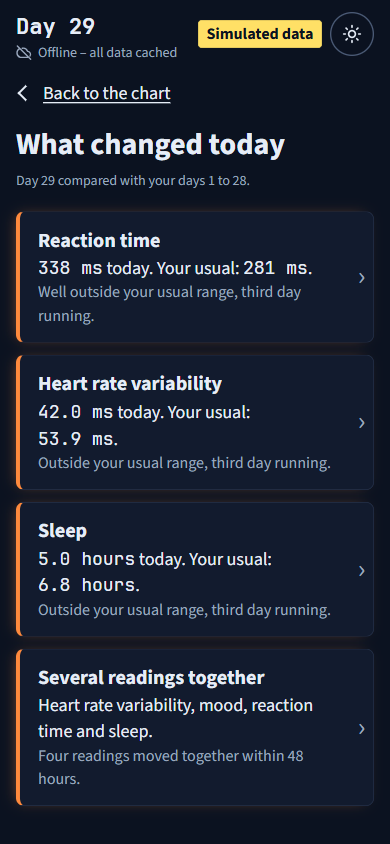
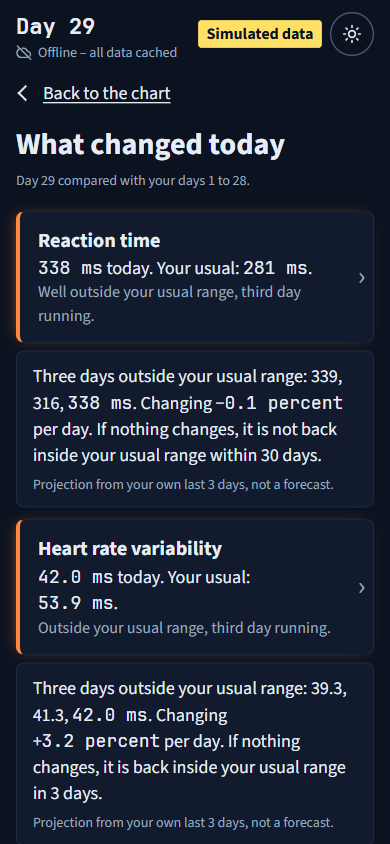
Trend projection card from the last 3 days; mood axis inside 1 to 5

diff --git a/app.js b/app.js
@@ -10,8 +10,8 @@ const SIGNALS = {
   sleep_hours: { name: "Sleep", phrase: "Your sleep last night", unit: "hours", dp: 1, step: 1, low: "shorter", high: "longer" },
   reaction_ms: { name: "Reaction time", phrase: "Your reaction time today", unit: "ms", dp: 0, step: 50, low: "faster", high: "slower" },
   // step for the four below: the smallest of 0.25, 0.5, 1, 2, 2.5, 5, 10 that gives three ticks on days 29 and 30
-  // of web/data/crew_a_anomaly.json (values plus usual range): 2 to 6, 50 to 70, 96 to 100, 36.5 to 37.0
-  mood_1to5: { name: "Mood", phrase: "Your mood today", unit: "of 5", diffUnit: "points", dp: 1, step: 2, low: "lower", high: "higher" },
+  // of web/data/crew_a_anomaly.json (values plus usual range): 2 to 6 (mood then capped at 5), 50 to 70, 96 to 100, 36.5 to 37.0
+  mood_1to5: { name: "Mood", phrase: "Your mood today", unit: "of 5", diffUnit: "points", dp: 1, step: 2, min: 1, max: 5, low: "lower", high: "higher" }, // axis kept on the 1-to-5 scale
   heart_rate_bpm: { name: "Heart rate", phrase: "Your heart rate today", unit: "beats a minute", dp: 0, step: 10, low: "lower", high: "higher" },
   spo2_pct: { name: "Blood oxygen", phrase: "Your blood oxygen today", unit: "percent", dp: 1, step: 2, low: "lower", high: "higher" },
   core_temp_c: { name: "Core temperature", phrase: "Your core temperature today", unit: "°C", dp: 2, step: 0.25, low: "lower", high: "higher" },
@@ -317,10 +317,10 @@ function drawChannel(signal) {
   const [ink, quiet, scrub, flag] = ["--ink", "--quiet", "--scrub", "--flag"].map(css), mono = { family: css("--mono") };
   const range = (b) => `${fmt(signal, b.mean - 2 * b.sd)} to ${fmt(signal, b.mean + 2 * b.sd)}`;
   const flagged = days.filter((_, i) => marks[i]);
-  const bottom = signal === CHANNELS.at(-1), step = SIGNALS[signal].step;
+  const bottom = signal === CHANNELS.at(-1), { step, min = 0, max = Infinity } = SIGNALS[signal];
   const span = [...full.vals, ...full.band.filter(Boolean).flatMap((b) => [b.mean - 2 * b.sd, b.mean + 2 * b.sd])];
-  const yMin = Math.max(0, Math.floor(Math.min(...span) / step) * step); // three ticks, all whole steps; none below zero
-  const yMax = yMin + Math.ceil((Math.max(...span) - yMin) / (2 * step)) * 2 * step;
+  const yMin = Math.max(min, Math.floor(Math.min(...span) / step) * step); // three ticks, all whole steps; none below zero
+  const yMax = Math.min(max, yMin + Math.ceil((Math.max(...span) - yMin) / (2 * step)) * 2 * step); // nor past the scale
 
   put(box.querySelector(".val"), fmt(signal, vals[last]));
   canvas.setAttribute("aria-label", checked(
@@ -492,6 +492,14 @@ function renderFlags() {
     const li = document.createElement("li");
     li.append(b);
     list.append(li);
+    // Trend card (design P2b) under a flag that has been outside the usual range 3 days running (web/projection.js).
+    const p = r.signal && Projection.projection(state.rows, r.signal, state.flags);
+    if (p) {
+      const [text, meta] = Projection.lines(p, SIGNALS[r.signal]), card = document.createElement("li");
+      card.className = "trend-card";
+      card.append(monoNums(make("p", text)), make("p", meta, "meta"));
+      list.append(card);
+    }
   }
   $("flag-note").hidden = row.near_vision_ok !== false;
   put($("flag-note"), "You reported blurred near vision. No rule scores this yet; it goes into the summary for the flight surgeon.");

diff --git a/projection.js b/projection.js
@@ -1,0 +1,51 @@
+"use strict";
+// Port of src/baseline/compute/trend.py for the offline page, plus the card's words.
+// Python is the reference; tests/test_trend.py checks this file gives the same numbers and cards.
+(function (root) {
+  const Rules = root.Rules || require("./rules.js");
+  const DAYS = 3, THRESHOLD = 2, WITHIN = 30;
+
+  // Least-squares slope per day; for 3 equally spaced days it equals (last − first) / 2.
+  function slope(days, values) {
+    const n = days.length, mx = days.reduce((a, x) => a + x, 0) / n, my = values.reduce((a, y) => a + y, 0) / n;
+    let num = 0, den = 0;
+    days.forEach((x, i) => { num += (x - mx) * (values[i] - my); den += (x - mx) ** 2; });
+    return num / den;
+  }
+
+  // The card for `signal` on the last day of rows, or null: only when the signal was outside its usual
+  // range (watch or confirmed) on each of the last 3 consecutive days. Edge = today's band from the rule.
+  function projection(rows, signal, flags = Rules.evaluate(rows)) {
+    if (rows.length < DAYS) return null;
+    const last = rows.slice(-DAYS), days = last.map((r) => r.day);
+    if (days.some((d, i) => d !== days[0] + i)) return null;
+    const hits = days.map((d) => (flags[d] || []).find((f) => f.signal === signal));
+    if (!hits.every(Boolean)) return null;
+    const values = last.map((r) => r[signal]), today = hits.at(-1);
+    const high = Rules.DIRECTIONS[signal] === "high";
+    const edge = today.baseline_mean + (high ? THRESHOLD : -THRESHOLD) * today.baseline_sd;
+    const s = slope(days, values), toward = high ? s < 0 : s > 0;
+    const back = toward ? Math.floor(Math.abs(values.at(-1) - edge) / Math.abs(s)) + 1 : null;
+    return { signal, days, values, slope: s, percent_per_day: (s / values.at(-1)) * 100, direction: Rules.DIRECTIONS[signal], edge, toward, days_back: back };
+  }
+
+  // The card's words. spec = { unit, dp } of the signal. No "flat", "rising" or "falling": no cut for them exists.
+  function lines(p, spec) {
+    const n = (v) => v.toFixed(spec.dp), pct = Math.round(p.percent_per_day * 10) / 10;
+    const rate = `${pct < 0 ? "−" : pct > 0 ? "+" : ""}${Math.abs(pct).toFixed(1)}`;
+    const high = p.direction === "high";
+    const outlook = !p.toward
+      ? `If nothing changes, it stays ${high ? "above your usual top" : "below your usual bottom"} of ${n(p.edge)} ${spec.unit}.`
+      : p.days_back > WITHIN
+        ? `If nothing changes, it is not back inside your usual range within ${WITHIN} days.`
+        : `If nothing changes, it is back inside your usual range in ${p.days_back} ${p.days_back === 1 ? "day" : "days"}.`;
+    return [
+      `Three days outside your usual range: ${p.values.map(n).join(", ")} ${spec.unit}. Changing ${rate} percent per day. ${outlook}`,
+      "Projection from your own last 3 days, not a forecast.",
+    ];
+  }
+
+  const api = { DAYS, slope, projection, lines };
+  if (typeof module === "object" && module.exports) module.exports = api;
+  else root.Projection = api;
+})(this);

diff --git a/index.html b/index.html
@@ -187,6 +187,11 @@ fieldset { border: 0; padding: 0; margin: 28px 0 0; min-width: 0; }
 .radiation h2 { margin-top: 0; color: var(--real-head); font-size: 22px; }
 .radiation p:last-child { margin-bottom: 0; }
 .spe-row > span { display: block; }
+/* Trend card under its flag (design P2b): framed, no left stripe, so it reads as part of the flag above. */
+.trend-card { padding: 12px 16px; border: 1px solid var(--card-border); border-radius: 8px; background: var(--card); }
+.flag-list .trend-card { margin-top: 8px; }
+.trend-card p { margin: 0; font-variant-numeric: tabular-nums; }
+.trend-card .meta { margin-top: 6px; }
 
 .readout {
   display: grid; grid-template-columns: minmax(7em, 38%) 1fr; gap: 8px 16px; margin: 8px 0 0;
@@ -433,8 +438,9 @@ fieldset { border: 0; padding: 0; margin: 28px 0 0; min-width: 0; }
 <script src="vendor/chart.umd.js?v=943f58faf8"></script>
 <script src="rules.js?v=9280e87989"></script>
 <script src="trend.js?v=076b8d7565"></script>
+<script src="projection.js?v=1eb08e8dd9"></script>
 <script src="reaction.js?v=0c373ca889"></script>
 <script src="store.js?v=986788a7d2"></script>
-<script src="app.js?v=bf9af0dc9f"></script>
+<script src="app.js?v=8f6ce9f86e"></script>
 </body>
 </html>
